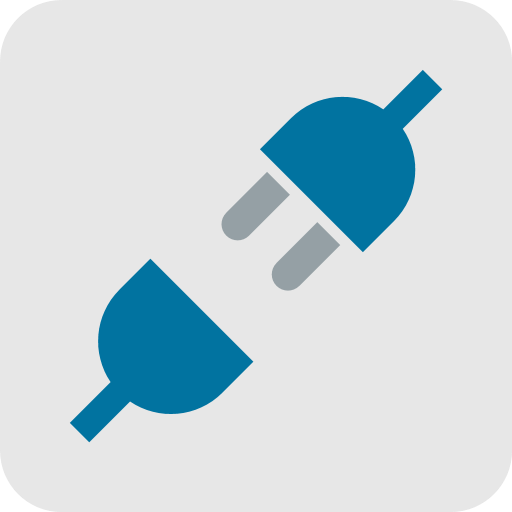
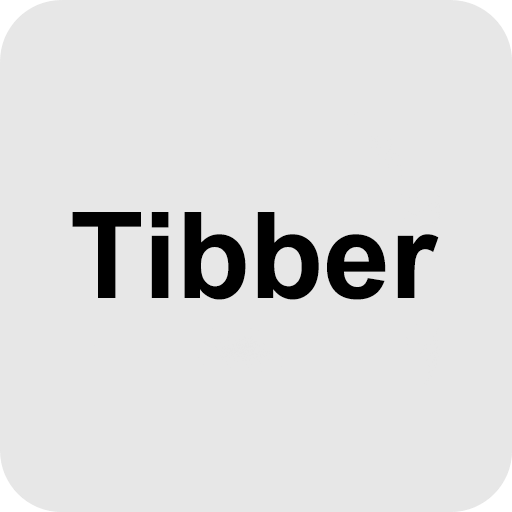
LB 2.0, minor fixes, new functionalities
Added SendasCents functionality, Added compatibility to LB 2.0, fixed price timing problem, enhanced debugging functionality, changed icons, updated readme

Changed region(s): [[0.125, 0.125, 0.875, 0.875]]

diff --git a/templates/main.html b/templates/main.html
@@ -52,6 +52,14 @@
 		</fieldset>
 	<div>
 	
+	<div data-role="fieldcontain">
+		<fieldset data-role="controlgroup">
+			<legend><TMPL_VAR SETTINGS.SENDCENTS_HINT></legend>	
+			<input type="checkbox" name="SendasCents" id="SendasCents">
+			<label for="SendasCents"><TMPL_VAR SETTINGS.SENDCENTS></label>
+		</fieldset>
+	<div>
+	
 </form> 
 <br />
 <div style="display:flex;align-items:center;justify-content:center;">
@@ -64,10 +72,24 @@
  
 <script>
 	var cfg;
-
+	var lbversion = '<TMPL_VAR LBVERSION>';
+	var jsonbackend_read = '/admin/system/ajax/ajax-generic.php?file=LBPCONFIG/tibber2mqtt/config.json&read';
+	var jsonbackend_write = '/admin/system/ajax/ajax-generic.php?file=LBPCONFIG/tibber2mqtt/config.json&write';
+	
 	$(document).ready(function(){
+		//Determine json backend based on version and pre-fill variables
+		var poststring_read = "";
+		if(lbversion.startsWith("2")){
+			jsonbackend_read = 'process.php';
+			jsonbackend_write = 'process.php';
+			poststring_read = {action: 'getconfigasjson'};
+		}
+	
 		// Read config
-		$.ajax('/admin/system/ajax/ajax-generic.php?file=LBPCONFIG/tibber2mqtt/config.json&read')
+		$.ajax(jsonbackend_read, { 
+			type: 'POST',
+			data: poststring_read
+		})
 		.done(function(response) {
 			cfg = JSON.parse(response);
 			
@@ -170,11 +192,18 @@
 	});
 	
 	$("#saveaction").click(function(){
+		//Fill post String based on LB version | url variable set in document ready
+		if(lbversion.startsWith("2")){
+			poststring_write = {action: 'savejsonasconfig', configToSave: JSON.stringify(cfg)};
+		}else{
+			poststring_write = JSON.stringify(cfg);
+		}
+		
 		$("#saveaction").attr("disabled", true);
-		$.ajax('/admin/system/ajax/ajax-generic.php?file=LBPCONFIG/tibber2mqtt/config.json&write', { 
+		$.ajax(jsonbackend_write, { 
 			type: 'POST',
 			dataType: 'json',
-			data: JSON.stringify(cfg)
+			data: poststring_write
 		})
 		.done(function() {
 			//Also delete cached file, as saved values may no longer fit

diff --git a/webfrontend/htmlauth/process.php b/webfrontend/htmlauth/process.php
@@ -9,7 +9,7 @@ define ("CacheFile", LBPDATADIR."/pricecache.json");
 
 //Start logging
 $log = LBLog::newLog(["name" => "Process.php"]);
-LOGINF("Script called.");
+LOGSTART("Script called.");
 
 //Decide for and run function
 $requestedAction = "";
@@ -25,11 +25,23 @@ if(isset($argv)){
 switch ($requestedAction){
 	case "forcepricerequest":
 		forcepricerequest();
+		LOGEND("Processing finished.");
 		break;
 	case "getconsumptions":
 		break;	
+	case "getconfigasjson":
+		LOGTITLE("getconfigasjson");
+		getconfigasjson(true);
+		LOGEND("Processing finished.");
+		break;
+	case "savejsonasconfig":
+		LOGTITLE("savejsonasconfig");
+		savejsonasconfig($_POST["configToSave"]);
+		LOGEND("Processing finished.");
+		break;
 	case "clearcache":
 		clearcache();
+		LOGEND("Processing finished.");
 		break;
 	default:
 		http_response_code(404);
@@ -39,9 +51,53 @@ switch ($requestedAction){
 }
 
 //Function definitions
+function getconfigasjson($output = false){
+	LOGINF("Switched to getconfigasjson");
+	
+	//Get Config
+	$tb_conf = new LBJSON(LBPCONFIGDIR."/config.json");
+	LOGDEB("Retrieved config:".json_encode($tb_conf));
+	
+	if($output){
+		echo json_encode($tb_conf->slave); 
+		return;
+	}else{
+		return $tb_conf;
+	}
+}
+
+function savejsonasconfig($config){
+	LOGINF("Switched to savejsonasconfig");
+	
+	if(!isset($config) || $config == "" || $config == null || $config == "null"){
+		http_response_code(404);
+		notify(LBPCONFIGDIR, "tibber2mqtt", "Saveconfig has been called without valid config.", "error");
+		LOGERR("Saveconfig has been called without valid config.");
+		return;
+	}
+	
+	LOGDEB("Config to save:".$config);
+	
+	//Get Config
+	$tb_conf = getconfigasjson();
+	
+	// Change a value 
+	$tb_conf->slave = json_decode($config);
+	
+	LOGDEB("Updated config object:".json_encode($tb_conf));
+	
+	// Write all changes
+	$tb_conf->write();
+	
+	//End in same way as ajax-generic of LB3
+	echo json_encode($tb_conf->slave); 
+	return;
+}
+
 function forcepricerequest(){	
 	LOGINF("Switched to forcepricerequest");
-
+	LOGTITLE("forcepricerequest");
+	
 	//Default PriceSetting String
 	$query_prices = "{
 		viewer {
@@ -61,8 +117,8 @@ function forcepricerequest(){
 	}";
 	
 	//Get Config
-	$tb_conf = new LBJSON(LBPCONFIGDIR."/config.json");
-	$tb_config = $tb_conf->slave;
+	$tb_config = getconfigasjson();
+	$tb_config = $tb_config->slave;
 	
 	if(!isset($tb_config->Main->token) OR $tb_config->Main->token == ""){
 		//Abort, as token not available.
@@ -97,11 +153,12 @@ function forcepricerequest(){
 	if (file_exists(CacheFile) && date ("d.m.Y", filemtime(CacheFile)) == date ("d.m.Y") && (date("H") < 13 || (date("H") >= 13 && date("H", filemtime(CacheFile)) >= 13))){
 		//Use cache value
 		$cachedData = json_decode(file_get_contents(CacheFile), TRUE); 
-		if(is_array($cachedData)) $processedPrices = $cachedData;
+		if(is_array($cachedData) && $cachedData["tomorrow"][0]["total"] != "") $processedPrices = $cachedData; //Double check first value of tomorrow, to ensure that prices are retrieved again, in case API did not deliver at 13:00 o'clock.
 	}
 	
 	//If value has not been retrieved, go ahead with reading from API
 	if(!isset($processedPrices)){
+		LOGINF("No cached data, retriev from API");
 
 		$reqValuesAllString = "startsAt";
 		$reqValArrAll = array_unique(array_merge($reqAbsoluteValArr, $reqRelativeValArr));
@@ -112,6 +169,7 @@ function forcepricerequest(){
 
 		//Build GraphQL String
 		$datas = json_encode(['query' => str_replace("%placeholder%", $reqValuesAllString, $query_prices)]);
+		LOGDEB("Query Array for API:".$datas);
 
 		$ch =  curl_init(Endpoint);
 		curl_setopt($ch, CURLOPT_RETURNTRANSFER, TRUE);
@@ -136,6 +194,8 @@ function forcepricerequest(){
 			LOGERR("Tibber sent error message: ".json_encode($res["errors"]));
 			return;
 		}
+		
+		LOGDEB("Data retrieved from API:".json_encode($res));
 			
 		//Define empty arrays for following processing
 		$processedPrices["today"] = array();
@@ -146,13 +206,16 @@ function forcepricerequest(){
 			foreach($reqValArrAll as $requestedValueKey){ //
 				//Loop through all received prices and move - sorted by absolute hours - into processedPrices array
 				foreach($pricesofDay as $priceRecord){
+					if($tb_config->SendasCents == true){
+						$priceRecord[$requestedValueKey] = $priceRecord[$requestedValueKey]*100;
+					}
 					$processedPrices[$keyofDay][(int)date("H", strtotime($priceRecord["startsAt"]))][$requestedValueKey] = $priceRecord[$requestedValueKey];
 				}
 				
 				//If no prices for $keyofDay (Today/tomorrow) have been received, set processedPrices array back to empty
 				if(count($pricesofDay) == 0){
 					for ($i=0; $i < 24; $i++){
-						$processedPrices[$keyofDay][(int)date("H", strtotime($priceRecord["startsAt"]))][$requestedValueKey] = "";
+						$processedPrices[$keyofDay][$i][$requestedValueKey] = "";
 					}
 				}
 			}
@@ -160,6 +223,7 @@ function forcepricerequest(){
 		
 		//Save new version of cached file, as it has been reloaded
 		file_put_contents(CacheFile, json_encode($processedPrices)); 
+		LOGDEB("Data written to cache:".json_encode($processedPrices));
 	}
 	
 	//Build relative array, if requested
@@ -253,12 +317,11 @@ function forcepricerequest(){
 	}
 	
 	$mqtt->close();
-	LOGEND("Processing terminated.");
 }
 
 function clearcache(){
 	LOGINF("Switched to clearcache");
+	LOGTITLE("clearcache");
 	file_put_contents(CacheFile, ""); 
-	LOGEND("Processing terminated.");
 }
 ?>

diff --git a/webfrontend/htmlauth/index.php b/webfrontend/htmlauth/index.php
@@ -8,8 +8,8 @@ LBWeb::lbheader("Tibber2MQTT", "", "");
 // This is the main area for your plugin
 $template_main = new LBTemplate($lbptemplatedir."/main.html");
 $template_main->paramArray($L);
+$template_main->param('LBVERSION', LBSystem::lbversion());
 $template_main->output();
-
 
 // Finally print the footer  
 LBWeb::lbfooter();
